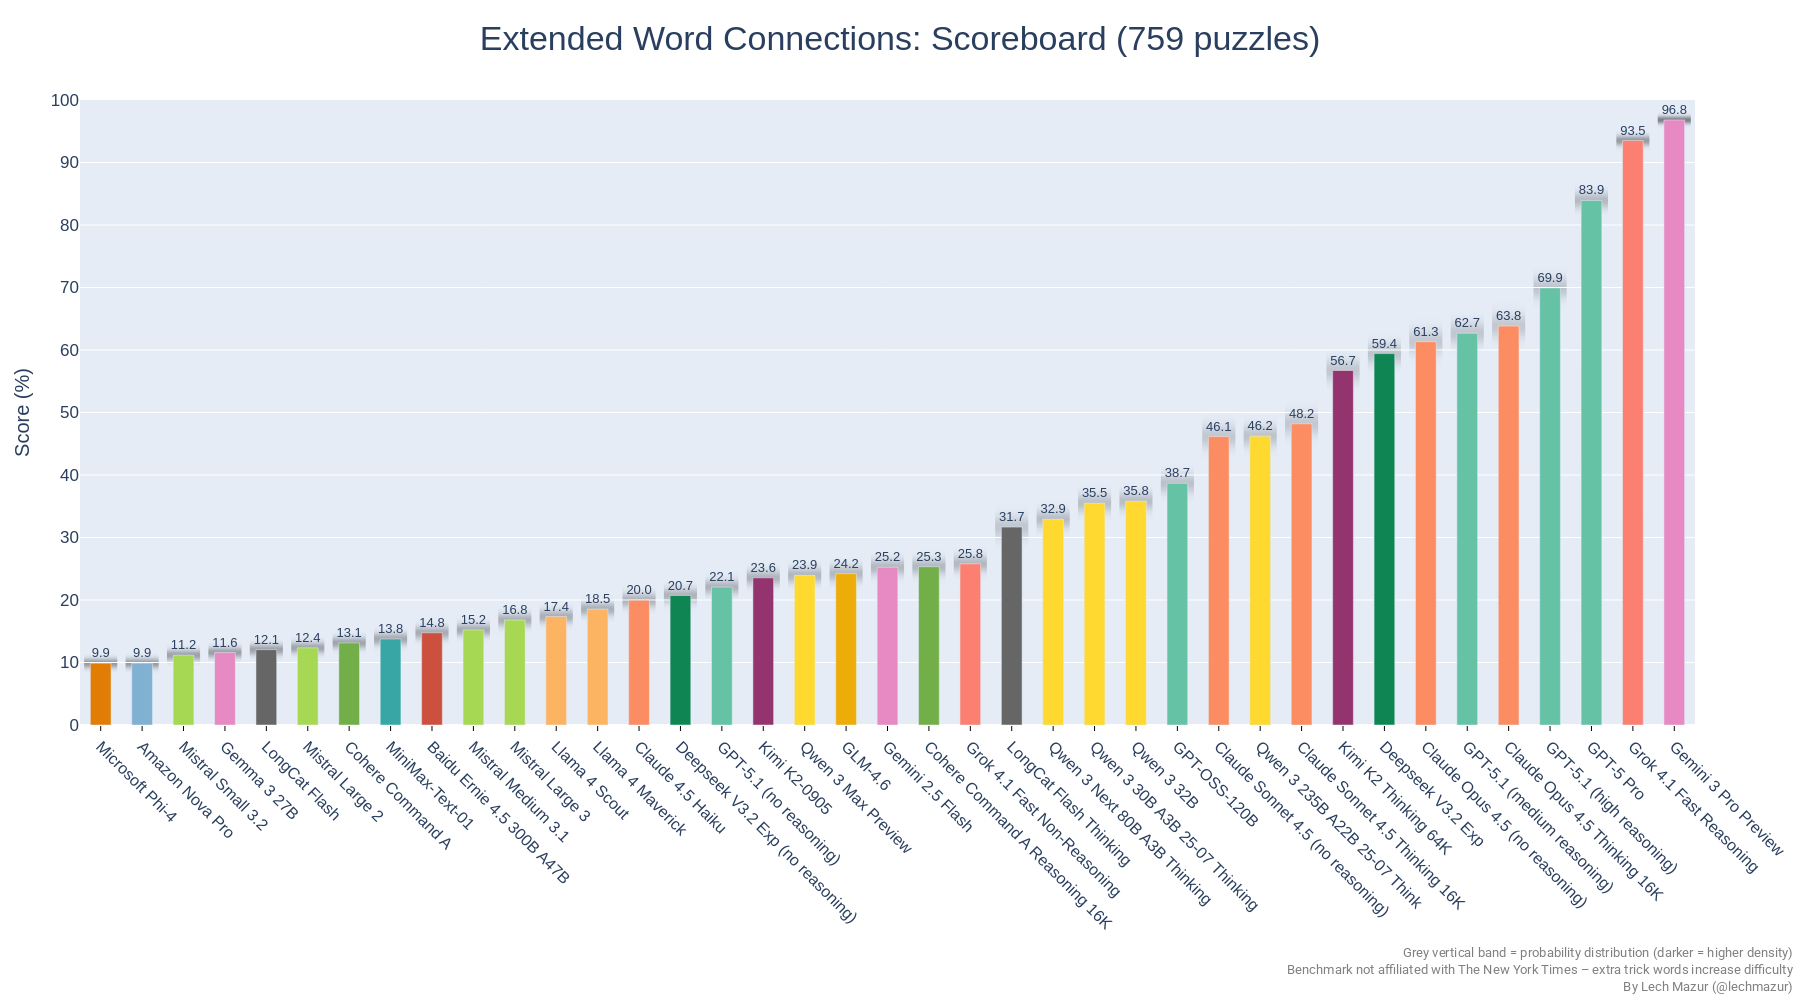
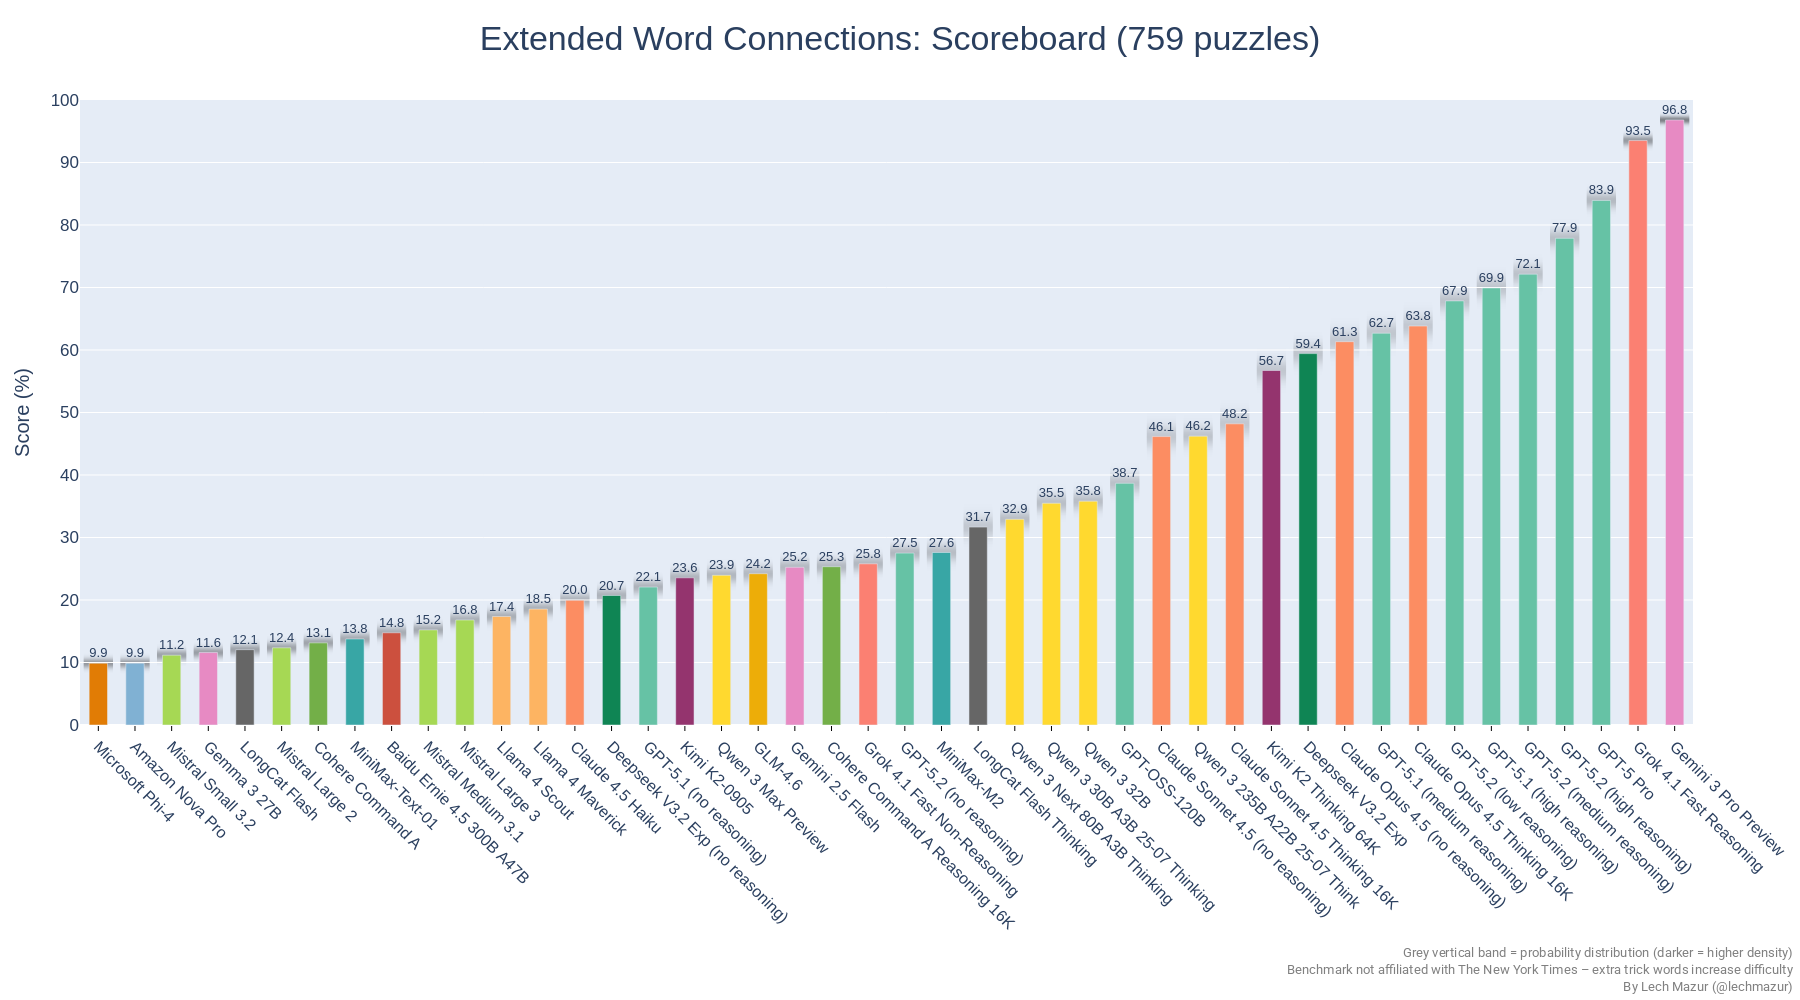
GPT-5.2

Changed region(s): [[0.0311, 0.124, 0.9644, 0.93], [0.9644, 0.837, 0.9956, 0.868]]

diff --git a/README.md b/README.md
@@ -22,114 +22,119 @@ As of Feb 4, 2025, there is a new version of the benchmark. The standard NYT Con
 |8|GPT-5 Pro|83.9|759|
 |9|o1-pro (medium reasoning)|82.5|651|
 |10|o3 (high reasoning)|78.6|759|
-|11|GPT-5 (high reasoning)|77.0|759|
-|12|o4-mini (high reasoning)|73.6|759|
-|13|o3 (medium reasoning)|73.0|759|
-|14|GPT-5 (medium reasoning)|72.2|759|
-|15|o1 (medium reasoning)|70.8|651|
-|16|GPT-5.1 (high reasoning)|69.9|759|
-|17|o4-mini (medium reasoning)|68.8|651|
-|18|GPT-5 mini (medium reasoning)|66.9|759|
-|19|GPT-5 (low reasoning)|65.4|759|
-|20|Claude Opus 4.5 Thinking 16K|63.8|759|
-|21|GPT-5.1 (medium reasoning)|62.7|759|
-|22|o3-mini (high reasoning)|61.4|651|
-|23|Claude Opus 4.5 (no reasoning)|61.3|759|
-|24|Deepseek V3.2 Exp|59.4|759|
-|25|Claude Opus 4.1 Thinking 16K|58.8|759|
-|26|DeepSeek V3.1 Reasoner|57.7|759|
-|27|Gemini 2.5 Pro|57.6|759|
-|28|Kimi K2 Thinking 64K|56.7|759|
-|29|Qwen 3 235B A22B|54.3|759|
-|30|Gemini 2.5 Pro Exp 03-25|54.1|651|
-|31|o3-mini (medium reasoning)|53.6|651|
-|32|Claude Opus 4 Thinking 16K|49.7|759|
-|33|DeepSeek R1 05/28|48.6|759|
-|34|Claude Sonnet 4.5 Thinking 16K|48.2|759|
-|35|Qwen 3 235B A22B 25-07 Think|46.2|759|
-|36|Claude Sonnet 4.5 (no reasoning)|46.1|759|
-|37|Gemini 2.5 Pro Preview 05-06|42.5|651|
-|38|Claude Sonnet 4 Thinking 16K|40.3|759|
-|39|Claude Sonnet 4 Thinking 64K|39.6|651|
-|40|GPT-OSS-120B|38.7|759|
-|41|DeepSeek R1|38.6|651|
-|42|Claude Opus 4.1 (no reasoning)|37.1|759|
-|43|Qwen 3 30B A3B|36.6|759|
-|44|Qwen 3 32B|35.8|759|
-|45|Qwen 3 30B A3B 25-07 Thinking|35.5|759|
-|46|Claude Opus 4 (no reasoning)|34.4|759|
-|47|GPT-4.5 Preview|34.2|651|
-|48|Claude 3.7 Sonnet Thinking 16K|33.6|651|
-|49|Qwen 3 Next 80B A3B Thinking|32.9|759|
-|50|LongCat Flash Thinking|31.7|499|
-|51|Qwen QwQ-32B 16K|31.4|651|
-|52|Grok 3 Mini Beta (high)|30.2|759|
-|53|GLM-4.5|30.2|759|
-|54|GPT-5 (minimal reasoning)|27.3|759|
-|55|o1-mini|26.9|651|
-|56|Claude Sonnet 4 (no reasoning)|26.6|759|
-|57|Grok 3 Mini Beta (low)|26.0|651|
-|58|Grok 4.1 Fast Non-Reasoning|25.8|759|
-|59|Quasar Alpha|25.4|651|
-|60|Cohere Command A Reasoning 16K|25.3|759|
-|61|Gemini 2.5 Flash|25.2|759|
-|62|Sherlock Dash Alpha|25.1|759|
-|63|Grok 4 Fast Non-Reasoning|24.9|759|
-|64|GPT-4o Mar 2025|24.5|759|
-|65|GLM-4.6|24.2|759|
-|66|Qwen 3 Max Preview|23.9|759|
-|67|Kimi K2-0905|23.6|759|
-|68|Gemini 2.0 Flash Think Exp 01-21|23.1|649|
-|69|GPT-4.1|22.8|759|
-|70|Sonoma Dusk Alpha|22.8|759|
-|71|GPT-4o Feb 2025|22.7|651|
-|72|GPT-5.1 (no reasoning)|22.1|759|
-|73|Polaris Alpha|21.8|759|
-|74|Gemini 2.0 Pro Exp 02-05|21.7|651|
-|75|DeepSeek V3.1 Non-Think|21.6|759|
-|76|MiniMax-M1|21.3|688|
-|77|Deepseek V3.2 Exp (no reasoning)|20.7|759|
-|78|Claude 4.5 Haiku|20.0|759|
-|79|Kimi K2|19.8|759|
-|80|Qwen 3 235B A22B 25-07 Instruct|19.8|759|
-|81|Grok 3 Beta (no reasoning)|19.7|759|
-|82|Grok 2 12-12|19.2|651|
-|83|Gemini 1.5 Pro (Sept)|19.2|601|
-|84|Claude 3 Opus|19.2|650|
-|85|Claude 3.7 Sonnet|19.2|651|
-|86|Gemini 2.0 Flash|18.8|651|
-|87|GPT-4o 2024-11-20|18.7|601|
-|88|Llama 4 Maverick|18.5|759|
-|89|Qwen 2.5 Max|18.0|651|
-|90|GPT-4o 2024-08-06|17.8|601|
-|91|Claude 3.5 Sonnet 2024-10-22|17.7|651|
-|92|Llama 4 Scout|17.4|759|
-|93|DeepSeek V3-0324|16.8|759|
-|94|Mistral Large 3|16.8|759|
-|95|Llama 3.1 405B|16.2|651|
-|96|Mistral Medium 3.1|15.2|759|
-|97|DeepSeek V3|15.1|651|
-|98|Llama 3.3 70B|15.1|651|
-|99|Baidu Ernie 4.5 300B A47B|14.8|759|
-|100|GPT-4.1 mini|14.4|759|
-|101|MiniMax-Text-01|13.8|759|
-|102|Cohere Command A|13.1|759|
-|103|Mistral Large 2|12.4|759|
-|104|Gemma 2 27B|12.2|651|
-|105|LongCat Flash|12.1|759|
-|106|Gemma 3 27B|11.6|759|
-|107|Mistral Medium 3|11.5|759|
-|108|Mistral Small 3.1|11.4|651|
-|109|Mistral Small 3.2|11.2|759|
-|110|Qwen 2.5 72B|10.5|759|
-|111|Claude 3.5 Haiku|10.0|759|
-|112|Amazon Nova Pro|9.9|759|
-|113|Microsoft Phi-4|9.9|759|
-|114|GPT-4o mini|9.7|759|
-|115|Mistral Small 3|8.9|601|
-|116|GPT-4.1 nano|8.1|759|
-|117|GLM4-32B-0414|7.6|759|
-|118|Claude 3 Haiku|2.2|601|
+|11|GPT-5.2 (high reasoning)|77.9|759|
+|12|GPT-5 (high reasoning)|77.0|759|
+|13|o4-mini (high reasoning)|73.6|759|
+|14|o3 (medium reasoning)|73.0|759|
+|15|GPT-5 (medium reasoning)|72.2|759|
+|16|GPT-5.2 (medium reasoning)|72.1|759|
+|17|o1 (medium reasoning)|70.8|651|
+|18|GPT-5.1 (high reasoning)|69.9|759|
+|19|o4-mini (medium reasoning)|68.8|651|
+|20|GPT-5.2 (low reasoning)|67.9|759|
+|21|GPT-5 mini (medium reasoning)|66.9|759|
+|22|GPT-5 (low reasoning)|65.4|759|
+|23|Claude Opus 4.5 Thinking 16K|63.8|759|
+|24|GPT-5.1 (medium reasoning)|62.7|759|
+|25|o3-mini (high reasoning)|61.4|651|
+|26|Claude Opus 4.5 (no reasoning)|61.3|759|
+|27|Deepseek V3.2 Exp|59.4|759|
+|28|Claude Opus 4.1 Thinking 16K|58.8|759|
+|29|DeepSeek V3.1 Reasoner|57.7|759|
+|30|Gemini 2.5 Pro|57.6|759|
+|31|Kimi K2 Thinking 64K|56.7|759|
+|32|Qwen 3 235B A22B|54.3|759|
+|33|Gemini 2.5 Pro Exp 03-25|54.1|651|
+|34|o3-mini (medium reasoning)|53.6|651|
+|35|Claude Opus 4 Thinking 16K|49.7|759|
+|36|DeepSeek R1 05/28|48.6|759|
+|37|Claude Sonnet 4.5 Thinking 16K|48.2|759|
+|38|Qwen 3 235B A22B 25-07 Think|46.2|759|
+|39|Claude Sonnet 4.5 (no reasoning)|46.1|759|
+|40|Gemini 2.5 Pro Preview 05-06|42.5|651|
+|41|Claude Sonnet 4 Thinking 16K|40.3|759|
+|42|Claude Sonnet 4 Thinking 64K|39.6|651|
+|43|GPT-OSS-120B|38.7|759|
+|44|DeepSeek R1|38.6|651|
+|45|Claude Opus 4.1 (no reasoning)|37.1|759|
+|46|Qwen 3 30B A3B|36.6|759|
+|47|Qwen 3 32B|35.8|759|
+|48|Qwen 3 30B A3B 25-07 Thinking|35.5|759|
+|49|Claude Opus 4 (no reasoning)|34.4|759|
+|50|GPT-4.5 Preview|34.2|651|
+|51|Claude 3.7 Sonnet Thinking 16K|33.6|651|
+|52|Qwen 3 Next 80B A3B Thinking|32.9|759|
+|53|LongCat Flash Thinking|31.7|499|
+|54|Qwen QwQ-32B 16K|31.4|651|
+|55|Grok 3 Mini Beta (high)|30.2|759|
+|56|GLM-4.5|30.2|759|
+|57|MiniMax-M2|27.6|750|
+|58|GPT-5.2 (no reasoning)|27.5|759|
+|59|GPT-5 (minimal reasoning)|27.3|759|
+|60|o1-mini|26.9|651|
+|61|Claude Sonnet 4 (no reasoning)|26.6|759|
+|62|Grok 3 Mini Beta (low)|26.0|651|
+|63|Grok 4.1 Fast Non-Reasoning|25.8|759|
+|64|Quasar Alpha|25.4|651|
+|65|Cohere Command A Reasoning 16K|25.3|759|
+|66|Gemini 2.5 Flash|25.2|759|
+|67|Sherlock Dash Alpha|25.1|759|
+|68|Grok 4 Fast Non-Reasoning|24.9|759|
+|69|GPT-4o Mar 2025|24.5|759|
+|70|GLM-4.6|24.2|759|
+|71|Qwen 3 Max Preview|23.9|759|
+|72|Kimi K2-0905|23.6|759|
+|73|Gemini 2.0 Flash Think Exp 01-21|23.1|649|
+|74|GPT-4.1|22.8|759|
+|75|Sonoma Dusk Alpha|22.8|759|
+|76|GPT-4o Feb 2025|22.7|651|
+|77|GPT-5.1 (no reasoning)|22.1|759|
+|78|Polaris Alpha|21.8|759|
+|79|Gemini 2.0 Pro Exp 02-05|21.7|651|
+|80|DeepSeek V3.1 Non-Think|21.6|759|
+|81|MiniMax-M1|21.3|688|
+|82|Deepseek V3.2 Exp (no reasoning)|20.7|759|
+|83|Claude 4.5 Haiku|20.0|759|
+|84|Kimi K2|19.8|759|
+|85|Qwen 3 235B A22B 25-07 Instruct|19.8|759|
+|86|Grok 3 Beta (no reasoning)|19.7|759|
+|87|Grok 2 12-12|19.2|651|
+|88|Gemini 1.5 Pro (Sept)|19.2|601|
+|89|Claude 3 Opus|19.2|650|
+|90|Claude 3.7 Sonnet|19.2|651|
+|91|Gemini 2.0 Flash|18.8|651|
+|92|GPT-4o 2024-11-20|18.7|601|
+|93|Llama 4 Maverick|18.5|759|
+|94|Qwen 2.5 Max|18.0|651|
+|95|GPT-4o 2024-08-06|17.8|601|
+|96|Claude 3.5 Sonnet 2024-10-22|17.7|651|
+|97|Llama 4 Scout|17.4|759|
+|98|DeepSeek V3-0324|16.8|759|
+|99|Mistral Large 3|16.8|759|
+|100|Llama 3.1 405B|16.2|651|
+|101|Mistral Medium 3.1|15.2|759|
+|102|DeepSeek V3|15.1|651|
+|103|Llama 3.3 70B|15.1|651|
+|104|Baidu Ernie 4.5 300B A47B|14.8|759|
+|105|GPT-4.1 mini|14.4|759|
+|106|MiniMax-Text-01|13.8|759|
+|107|Cohere Command A|13.1|759|
+|108|Mistral Large 2|12.4|759|
+|109|Gemma 2 27B|12.2|651|
+|110|LongCat Flash|12.1|759|
+|111|Gemma 3 27B|11.6|759|
+|112|Mistral Medium 3|11.5|759|
+|113|Mistral Small 3.1|11.4|651|
+|114|Mistral Small 3.2|11.2|759|
+|115|Qwen 2.5 72B|10.5|759|
+|116|Claude 3.5 Haiku|10.0|759|
+|117|Amazon Nova Pro|9.9|759|
+|118|Microsoft Phi-4|9.9|759|
+|119|GPT-4o mini|9.7|759|
+|120|Mistral Small 3|8.9|601|
+|121|GPT-4.1 nano|8.1|759|
+|122|GLM4-32B-0414|7.6|759|
+|123|Claude 3 Haiku|2.2|601|
 
 
 
@@ -241,6 +246,7 @@ This benchmark evaluates large language models (LLMs) using 436 NYT Connections 
 ---
 
 ## Updates
+- Dec 11, 2025: GPT 5.2 added.
 - Dec 2, 2025: Mistral Large 3 added.
 - Nov 24, 2025: Claude Opus 4.5 added.
 - Nov 21, 2025: Grok 4.1 Fast added.
